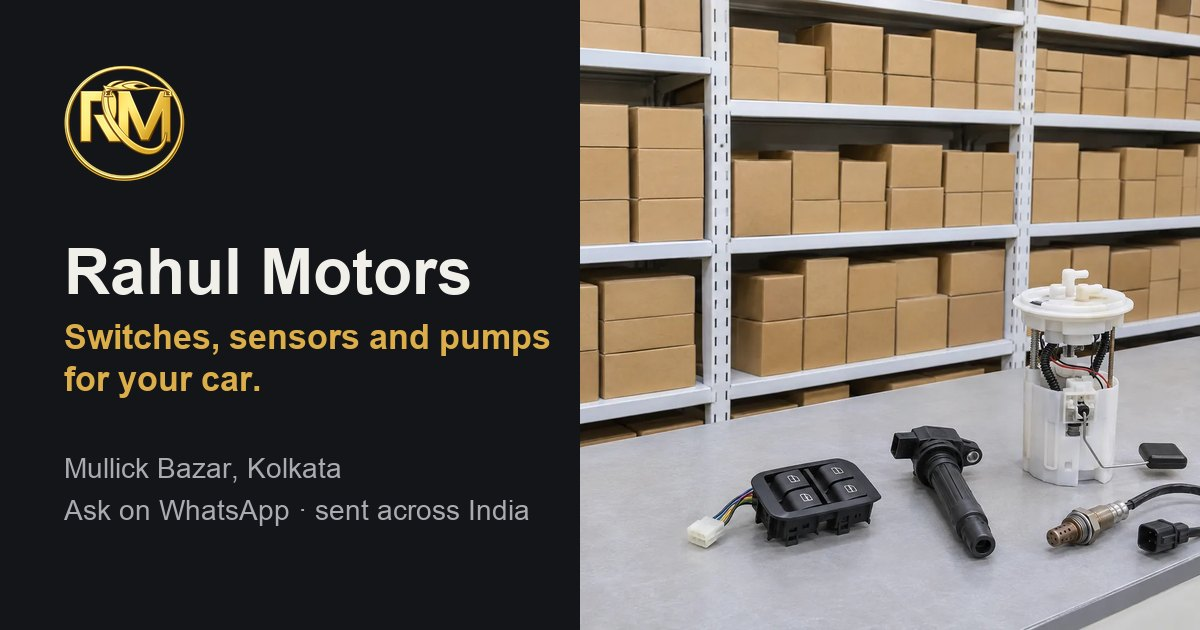
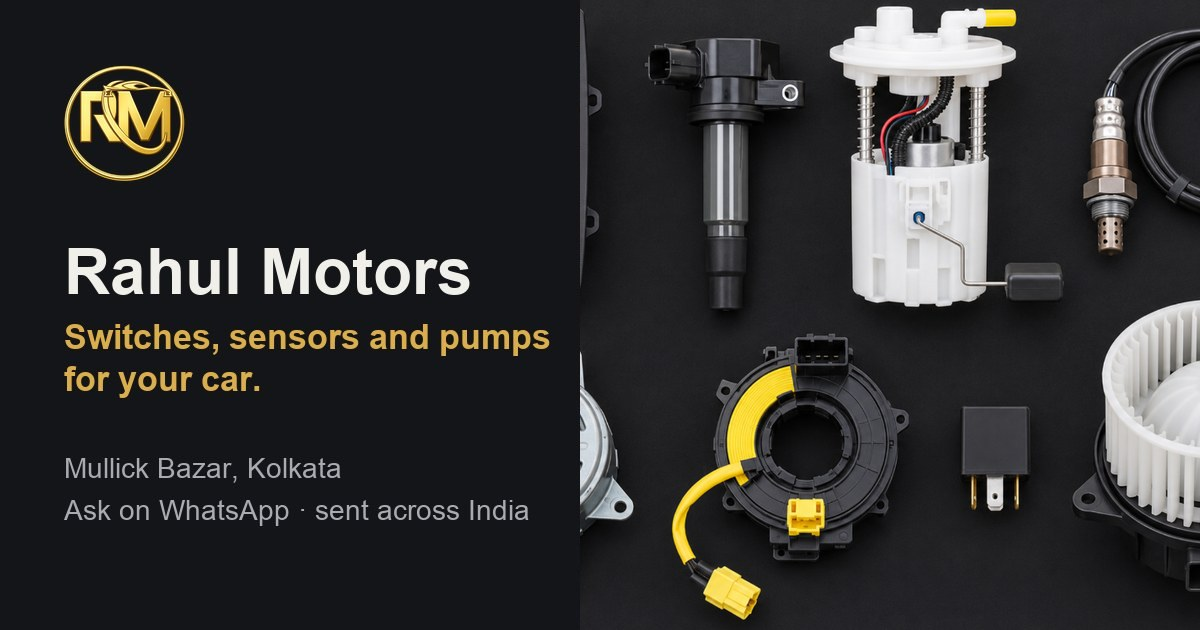
New hero photo, address 38 A.J.C. Bose Road, payment and returns in FAQ

diff --git a/lib/faq.ts b/lib/faq.ts
@@ -1,7 +1,7 @@
 import { SHOP } from "./shop";
 
 // Questions people ask at the counter and on WhatsApp. Only things the shop
-// has confirmed go here; payment and return answers wait for the owner.
+// has confirmed go here.
 
 export interface Faq {
   q: string;
@@ -22,6 +22,14 @@ export const FAQS: Faq[] = [
     q: "How do I know a part fits my car?",
     a: "Send us a photo of your old part and the number printed on it, or your car, model and year. We check the side, the plug and the version with you before you order.",
     link: { href: "/fit-guide", label: "How to find the right part" },
+  },
+  {
+    q: "How can I pay?",
+    a: "Any way you like: cash, UPI, card or bank transfer.",
+  },
+  {
+    q: "Can I return or exchange a part?",
+    a: "Yes, for a genuine reason. We check the part and the reason first, then return or exchange it. Ask on WhatsApp and we will tell you how.",
   },
   {
     q: "Do you send parts outside Kolkata?",

diff --git a/components/Hero.tsx b/components/Hero.tsx
@@ -47,8 +47,8 @@ export default function Hero({ quick }: { quick: QuickLink[] }) {
         <div className="fade-late relative">
           <div className="relative aspect-[3/2] overflow-hidden rounded-[18px] border border-graphite-line">
             <Image
-              src="/img/hero.webp"
-              alt="Parts on the counter at Rahul Motors: a window switch, an ignition coil, a fuel pump and an oxygen sensor, with racks of boxed parts behind"
+              src="/img/hero-parts.webp"
+              alt="Car parts laid out on a dark mat: a window switch, an ignition coil, a fuel pump, an oxygen sensor, a fan motor, a clock spring, a relay and a blower motor"
               fill
               priority
               sizes="(max-width: 1024px) 100vw, 560px"

diff --git a/lib/shop.ts b/lib/shop.ts
@@ -10,9 +10,9 @@ export const SHOP = {
   whatsapp: { display: "+91 82401 54155", raw: "918240154155" },
   email: "rahulmotors08@gmail.com",
   address: {
-    line1: "36A, A.J.C. Bose Road",
+    line1: "38, A.J.C. Bose Road",
     line2: "Mullick Bazar, Kolkata 700017",
-    street: "36A, A.J.C. Bose Road, Mullick Bazar",
+    street: "38, A.J.C. Bose Road, Mullick Bazar",
     city: "Kolkata",
     region: "West Bengal",
     postcode: "700017",

diff --git a/.claude/image-gen-log.md b/.claude/image-gen-log.md
@@ -52,3 +52,9 @@ Chrome blocked automatic downloads from chatgpt.com after 3 files, so 7 images w
 | guide-pins | /fit-guide step 2 | 1/5 | done (viewer capture) | public/img/guide/pins.webp |
 
 Real shop photos (not generated): public/img/shop/{front,sign,counter}.webp, taken from the shop's Google Maps listing, lightly brightened and sharpened; crops avoid people's faces.
+
+# Image gen 2026-11-11 (round 4: user said the hero was not good)
+| id | slot | attempts | status | file |
+|----|------|----------|--------|------|
+| hero-parts | home hero + right half of og.jpg | 1/5 (2 options made: flat-lay on dark mat, and a shop counter scene; flat-lay chosen) | done (viewer capture) | public/img/hero-parts.webp |
+New file name so cached copies of the old hero.webp are not served.
